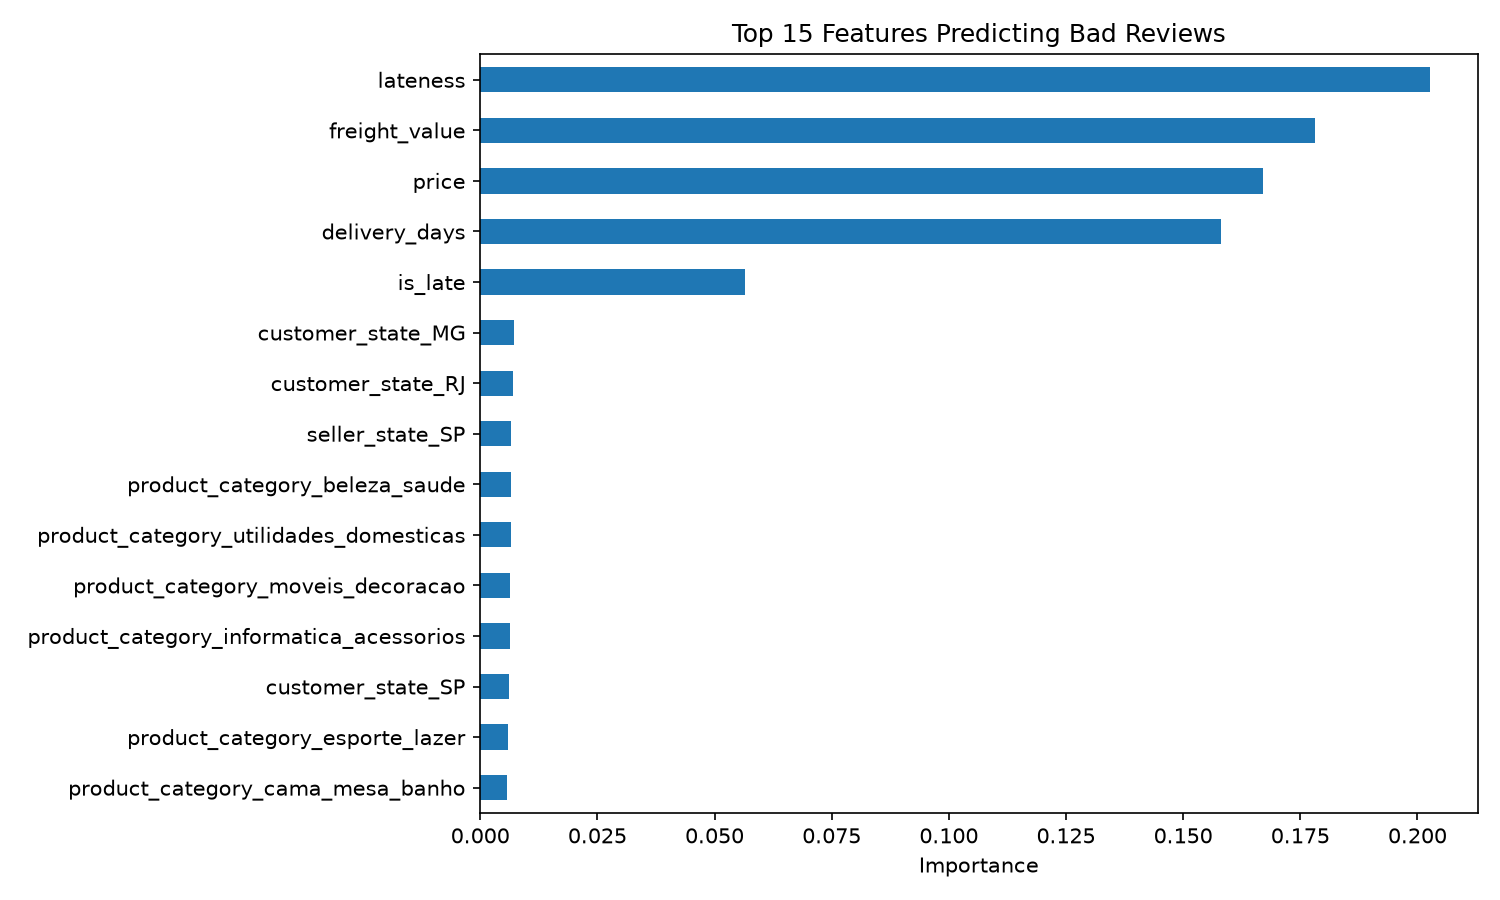
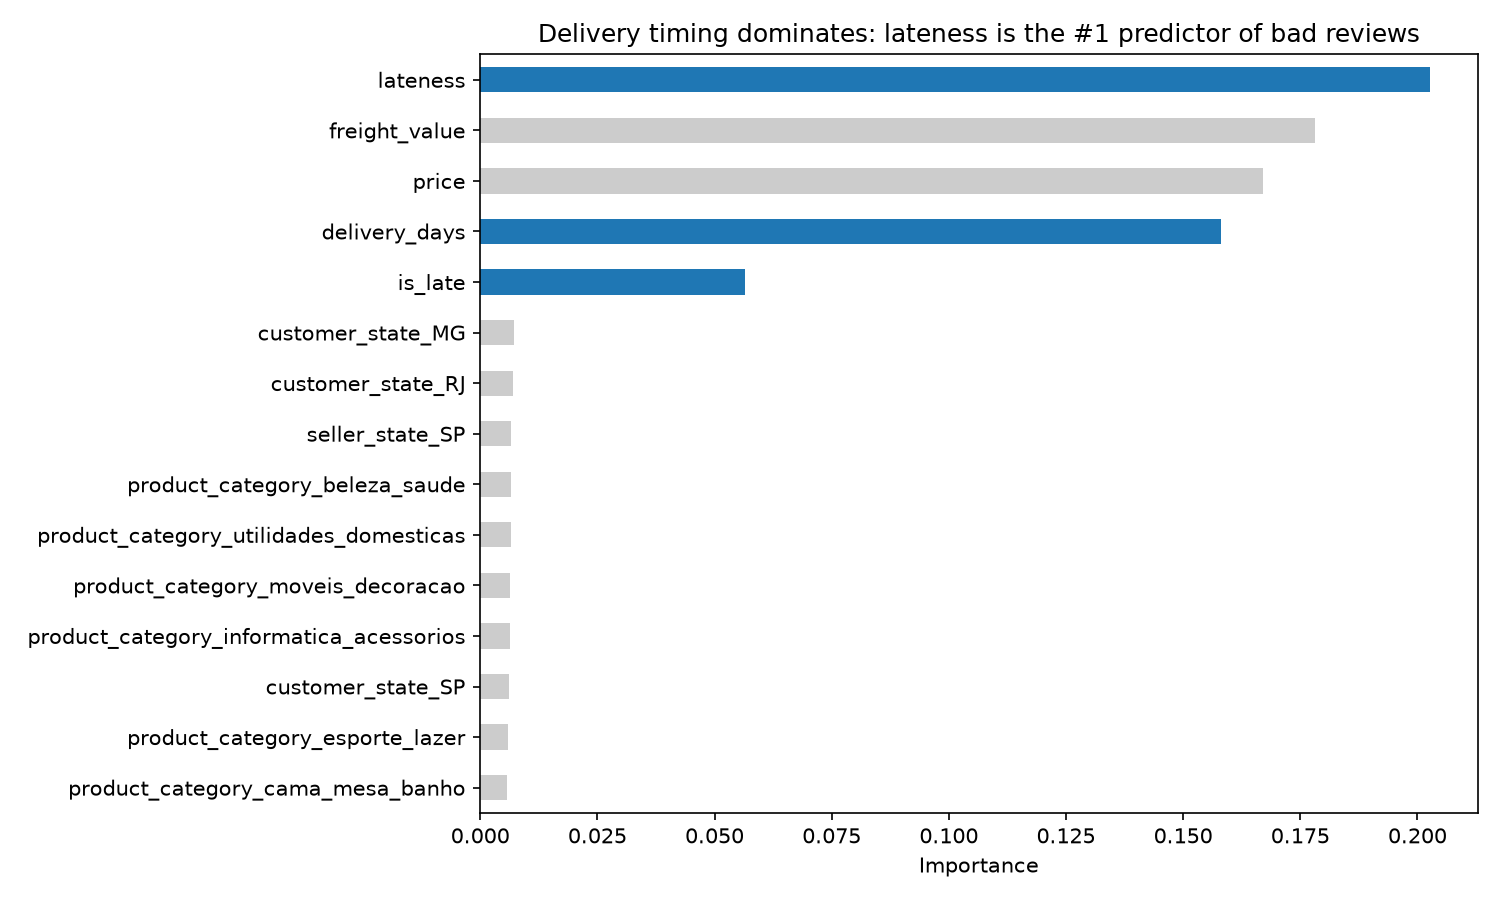
Step 7: feature importance chart complete

diff --git a/ml-model/scripts/02_train_model.py b/ml-model/scripts/02_train_model.py
@@ -99,8 +99,10 @@ importances = pd.Series(rf_model.feature_importances_, index=x.columns) #feature
 top15 = importances.sort_values(ascending=False).head(15)
 
 plt.figure(figsize=(10, 6))
-top15.sort_values(ascending=True).plot(kind='barh')
-plt.title("Top 15 Features Predicting Bad Reviews")
+delivery_features = ['lateness', 'delivery_days', 'is_late']
+colors = ['#1f77b4' if f in delivery_features else '#cccccc' for f in top15.sort_values(ascending=True).index]
+top15.sort_values(ascending=True).plot(kind='barh', color=colors)
+plt.title("Delivery timing dominates: lateness is the #1 predictor of bad reviews")
 plt.xlabel("Importance")
 plt.tight_layout()
 
